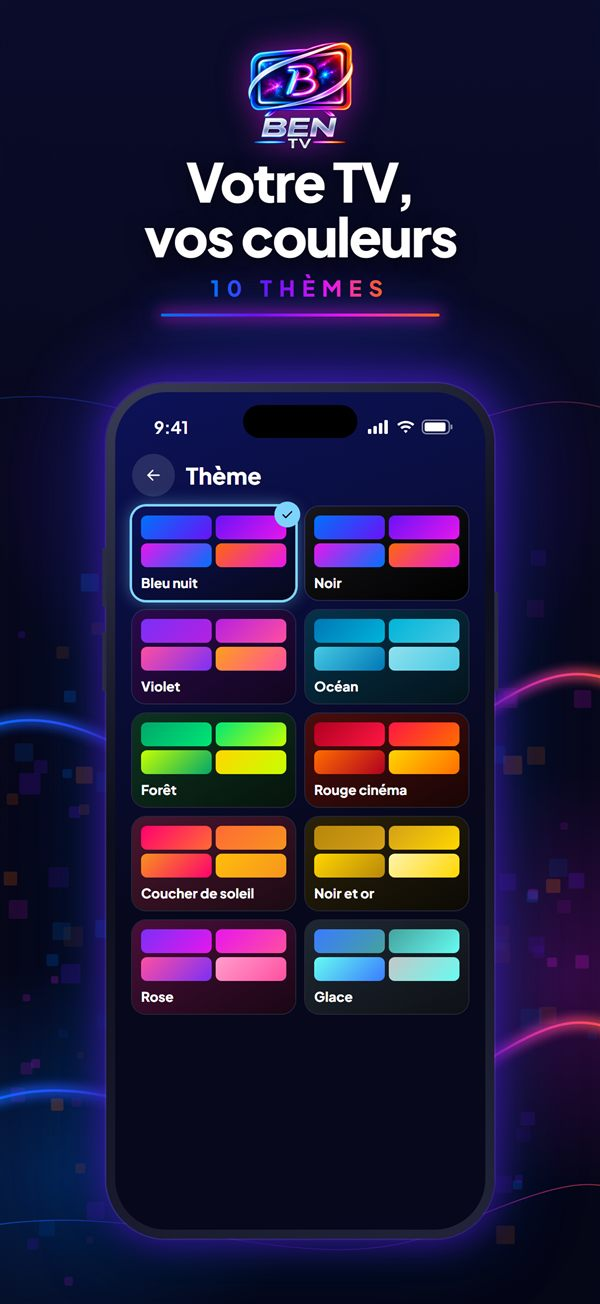
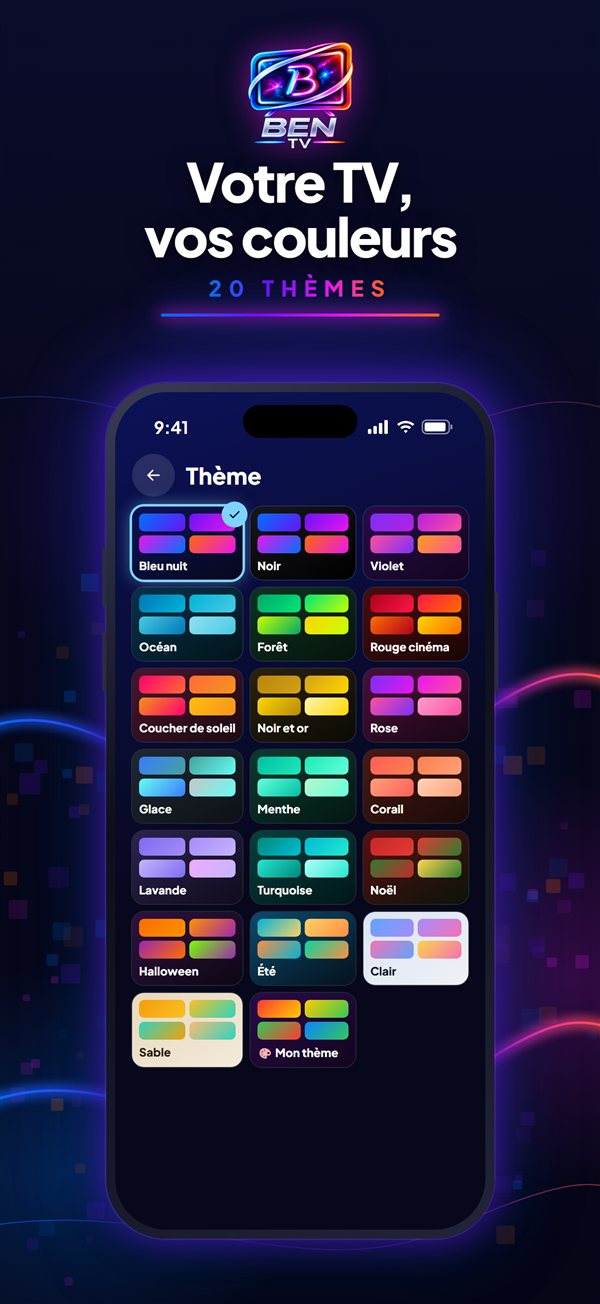
Site : 20 thèmes et Mon thème, nouvel onglet et carte 10 langues, nouveaux visuels

Changed region(s): [[0.21, 0.3681, 0.78, 0.8282], [0.33, 0.2147, 0.66, 0.2454]]

diff --git a/index.html b/index.html
@@ -210,6 +210,7 @@
           <button class="tab" data-k="reprendre" type="button"><svg viewBox="0 0 24 24" fill="none" stroke="currentColor" stroke-width="2" stroke-linecap="round" stroke-linejoin="round"><circle cx="12" cy="12" r="9"/><path d="M10 8.5l5 3.5-5 3.5z"/></svg>Reprendre</button>
           <button class="tab" data-k="suggere" type="button"><svg viewBox="0 0 24 24" fill="none" stroke="currentColor" stroke-width="2" stroke-linecap="round" stroke-linejoin="round"><path d="M12 3l1.8 5.2L19 10l-5.2 1.8L12 17l-1.8-5.2L5 10l5.2-1.8z"/><path d="M19 15l.8 2.2L22 18l-2.2.8L19 21l-.8-2.2L16 18l2.2-.8z"/></svg>Suggère-moi</button>
           <button class="tab" data-k="themes" type="button"><svg viewBox="0 0 24 24" fill="none" stroke="currentColor" stroke-width="2" stroke-linecap="round" stroke-linejoin="round"><path d="M12 3a9 9 0 1 0 0 18c1.1 0 1.6-.9 1.2-1.8-.5-1.1.2-2.2 1.4-2.2H17a4 4 0 0 0 4-4c0-5.5-4-10-9-10z"/><circle cx="7.5" cy="11" r="1"/><circle cx="10.5" cy="7" r="1"/><circle cx="15" cy="7.5" r="1"/></svg>Thèmes</button>
+          <button class="tab" data-k="langues" type="button"><svg viewBox="0 0 24 24" fill="none" stroke="currentColor" stroke-width="2" stroke-linecap="round" stroke-linejoin="round"><circle cx="12" cy="12" r="9"/><path d="M3 12h18M12 3a14 14 0 0 1 0 18M12 3a14 14 0 0 0 0 18"/></svg>Langues</button>
           <button class="tab" data-k="telech" type="button"><svg viewBox="0 0 24 24" fill="none" stroke="currentColor" stroke-width="2" stroke-linecap="round" stroke-linejoin="round"><path d="M12 3v12M7 10l5 5 5-5M4 20h16"/></svg>Hors ligne</button>
       </div>
     <div class="stage" id="stage">
@@ -222,6 +223,7 @@
         <img class="mini" data-k="reprendre" src="img/04-reprendre.jpg" alt="Reprendre la lecture">
         <img class="mini" data-k="suggere" src="img/05-suggere-moi.jpg" alt="Suggère-moi">
         <img class="mini" data-k="themes" src="img/06-themes.jpg" alt="Thèmes">
+        <img class="mini" data-k="langues" src="img/08-langues.jpg" alt="Langues">
         <img class="mini" data-k="telech" src="img/07-telechargements.jpg" alt="Téléchargements">
         <div class="pivot"><div class="card3d" id="card3d"><img class="face" src="img/01-accueil.jpg" alt="Écran de Ben TV"><img class="face dos" src="img/02-guide-tv.jpg" alt=""></div></div>
       </div>
@@ -239,7 +241,8 @@
       <div class="card reveal"><div class="ico">🎬</div><h3>Films et séries</h3><p>Une affiche par titre, version VF, VOSTFR ou 4K au choix.</p></div>
       <div class="card reveal"><div class="ico">⬇</div><h3>Hors ligne</h3><p>Téléchargez films et épisodes pour les regarder sans connexion (iPhone, iPad, Android).</p></div>
       <div class="card reveal"><div class="ico">👨👩👧</div><h3>Profils et code parental</h3><p>Un profil par personne, catégories verrouillées par code.</p></div>
-      <div class="card reveal"><div class="ico">🎨</div><h3>10 thèmes</h3><p>Accueil à la carte et couleurs au choix.</p></div>
+      <div class="card reveal"><div class="ico">🎨</div><h3>20 thèmes</h3><p>Dont 2 thèmes clairs et « Mon thème » : choisissez votre propre couleur.</p></div>
+      <div class="card reveal"><div class="ico">🌍</div><h3>10 langues</h3><p>Français, anglais, arabe, espagnol, allemand, italien, portugais, turc, néerlandais, polonais.</p></div>
       <div class="card reveal"><div class="ico">🖼</div><h3>Image dans l'image</h3><p>Continuez à regarder en petite fenêtre sur iPhone et iPad.</p></div>
       <div class="card reveal"><div class="ico">🔒</div><h3>Aucune donnée collectée</h3><p>Pas de compte, pas de publicité, pas de pistage. Tout reste sur votre appareil.</p></div>
     </div>
@@ -326,7 +329,8 @@
     film: ['Films et séries', 'à volonté.', "Fiches complètes : bande-annonce, acteurs, sagas et idées « dans le même genre »."],
     reprendre: ['Reprenez là', 'où vous en étiez.', "Barre de progression, épisode suivant, « ✓ Vu » : Ben TV se souvient pour vous."],
     suggere: ["Pas d'idée", 'ce soir ?', "« Suggère-moi » choisit pour vous selon votre envie et avec qui vous regardez."],
-    themes: ['Votre TV,', 'vos couleurs.', "10 thèmes de couleurs et un accueil à la carte : vous choisissez ce qui s'affiche."],
+    themes: ['Votre TV,', 'vos couleurs.', "20 thèmes, dont 2 clairs, et « Mon thème » pour choisir votre propre couleur. Accueil à la carte."],
+    langues: ['Votre TV parle', 'votre langue.', "10 langues, arabe compris : Ben TV suit la langue de votre appareil, ou choisissez-la dans Paramètres."],
     telech: ['Emportez vos films', 'partout.', "Téléchargez films et épisodes pour les regarder sans connexion, en voyage ou dans le train."],
   };
   const tabs = [...document.querySelectorAll('.tab')], stage = document.getElementById('stage'), monde = document.getElementById('monde');
